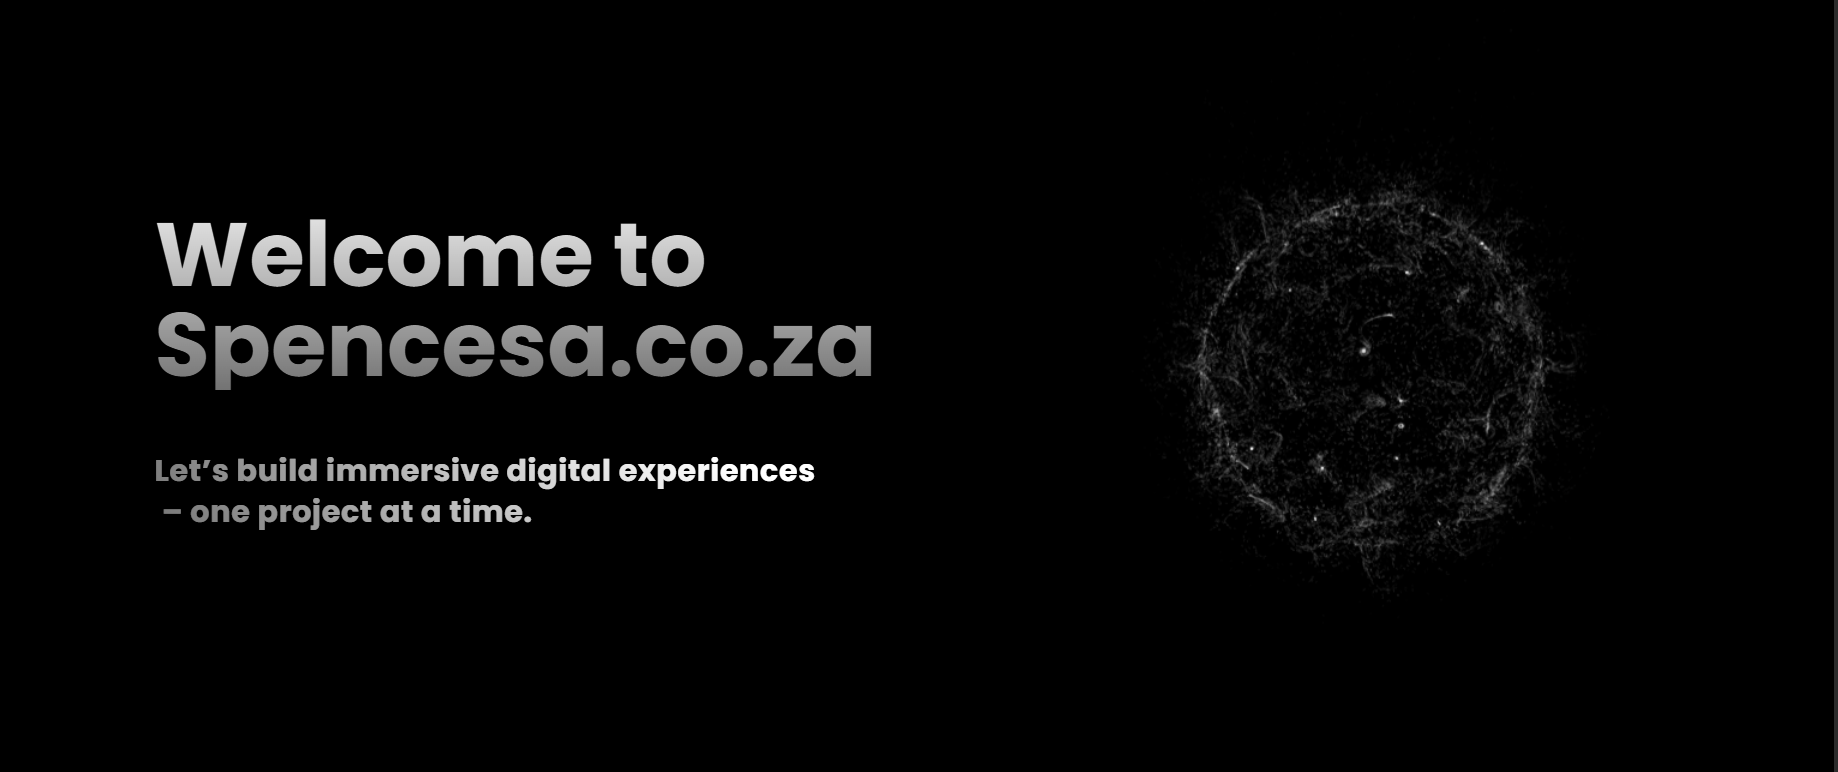
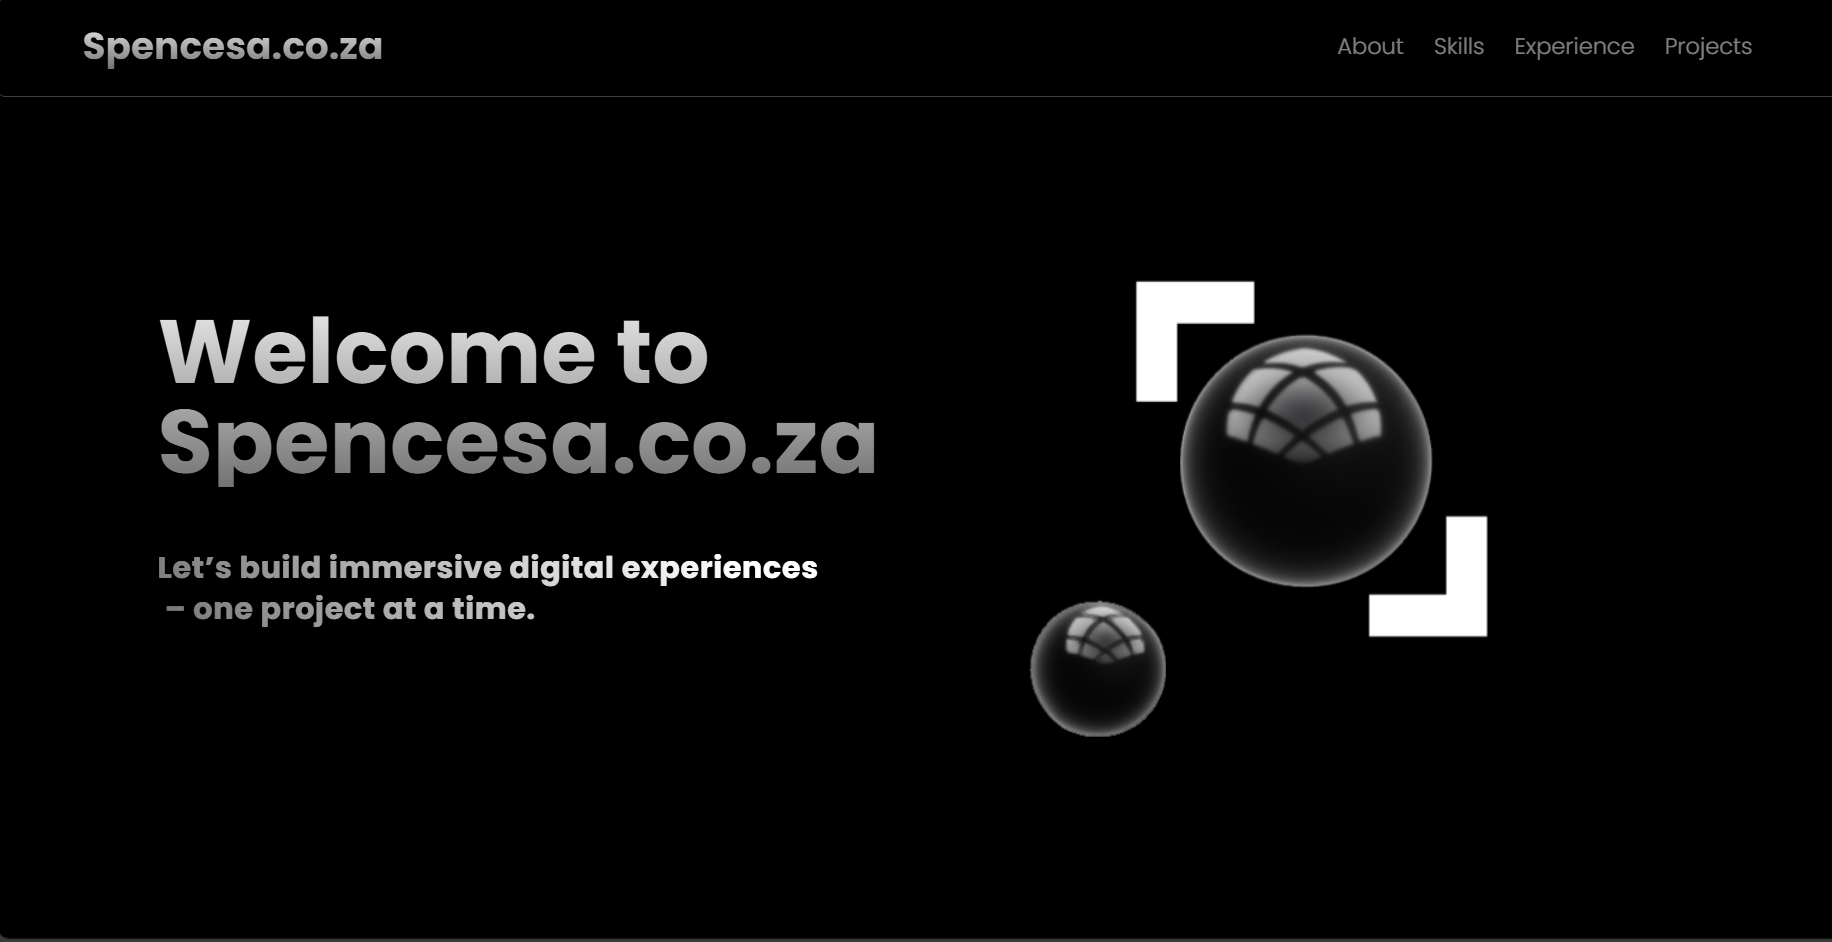
basic updates

diff --git a/hooks/waves.tsx b/hooks/waves.tsx
@@ -1,0 +1,354 @@
+import {useRef, useEffect} from "react";
+
+// Noise + Grad (unchanged)
+class Grad {
+    private x: number;
+    private y: number;
+    private z: number;
+
+    constructor(x: number, y: number, z: number) {
+        this.x = x;
+        this.y = y;
+        this.z = z;
+    }
+
+    dot2(x: number, y: number): number {
+        return this.x * x + this.y * y;
+    }
+}
+
+class Noise {
+
+    grad3: Grad[];
+    p: number[];
+    perm: number[];
+    gradP: Grad[];
+
+    constructor(seed = 0) {
+        this.grad3 = [
+            new Grad(1, 1, 0), new Grad(-1, 1, 0), new Grad(1, -1, 0), new Grad(-1, -1, 0),
+            new Grad(1, 0, 1), new Grad(-1, 0, 1), new Grad(1, 0, -1), new Grad(-1, 0, -1),
+            new Grad(0, 1, 1), new Grad(0, -1, 1), new Grad(0, 1, -1), new Grad(0, -1, -1)
+        ];
+        this.p = [151, 160, 137, 91, 90, 15, 131, 13, 201, 95, 96, 53, 194, 233, 7, 225, 140, 36, 103, 30,
+            69, 142, 8, 99, 37, 240, 21, 10, 23, 190, 6, 148, 247, 120, 234, 75, 0, 26, 197, 62, 94, 252, 219,
+            203, 117, 35, 11, 32, 57, 177, 33, 88, 237, 149, 56, 87, 174, 20, 125, 136, 171, 168, 68, 175, 74,
+            165, 71, 134, 139, 48, 27, 166, 77, 146, 158, 231, 83, 111, 229, 122, 60, 211, 133, 230, 220, 105,
+            92, 41, 55, 46, 245, 40, 244, 102, 143, 54, 65, 25, 63, 161, 1, 216, 80, 73, 209, 76, 132, 187, 208,
+            89, 18, 169, 200, 196, 135, 130, 116, 188, 159, 86, 164, 100, 109, 198, 173, 186, 3, 64, 52, 217,
+            226, 250, 124, 123, 5, 202, 38, 147, 118, 126, 255, 82, 85, 212, 207, 206, 59, 227, 47, 16, 58, 17,
+            182, 189, 28, 42, 223, 183, 170, 213, 119, 248, 152, 2, 44, 154, 163, 70, 221, 153, 101, 155, 167,
+            43, 172, 9, 129, 22, 39, 253, 19, 98, 108, 110, 79, 113, 224, 232, 178, 185, 112, 104, 218, 246,
+            97, 228, 251, 34, 242, 193, 238, 210, 144, 12, 191, 179, 162, 241, 81, 51, 145, 235, 249, 14, 239,
+            107, 49, 192, 214, 31, 181, 199, 106, 157, 184, 84, 204, 176, 115, 121, 50, 45, 127, 4, 150, 254,
+            138, 236, 205, 93, 222, 114, 67, 29, 24, 72, 243, 141, 128, 195, 78, 66, 215, 61, 156, 180
+        ];
+        this.perm = new Array(512);
+        this.gradP = new Array(512);
+        this.seed(seed);
+    }
+
+    seed(seed: number) {
+        if (seed > 0 && seed < 1) seed *= 65536;
+        seed = Math.floor(seed);
+        if (seed < 256) seed |= seed << 8;
+        for (let i = 0; i < 256; i++) {
+            let v = (i & 1) ? (this.p[i] ^ (seed & 255)) : (this.p[i] ^ ((seed >> 8) & 255));
+            this.perm[i] = this.perm[i + 256] = v;
+            this.gradP[i] = this.gradP[i + 256] = this.grad3[v % 12];
+        }
+    }
+
+    fade(t: number) {
+        return t * t * t * (t * (t * 6 - 15) + 10);
+    }
+
+    lerp(a: number, b: number, t: number) {
+        return (1 - t) * a + t * b;
+    }
+
+    perlin2(x: number, y: number) {
+        let X = Math.floor(x), Y = Math.floor(y);
+        x -= X;
+        y -= Y;
+        X &= 255;
+        Y &= 255;
+        const n00 = this.gradP[X + this.perm[Y]].dot2(x, y);
+        const n01 = this.gradP[X + this.perm[Y + 1]].dot2(x, y - 1);
+        const n10 = this.gradP[X + 1 + this.perm[Y]].dot2(x - 1, y);
+        const n11 = this.gradP[X + 1 + this.perm[Y + 1]].dot2(x - 1, y - 1);
+        const u = this.fade(x);
+        return this.lerp(
+            this.lerp(n00, n10, u),
+            this.lerp(n01, n11, u),
+            this.fade(y)
+        );
+    }
+}
+
+interface WavesProps {
+    lineColor?: string;
+    backgroundColor?: string;
+    waveSpeedX?: number;
+    waveSpeedY?: number;
+    waveAmpX?: number;
+    waveAmpY?: number;
+    xGap?: number;
+    yGap?: number;
+    friction?: number;
+    tension?: number;
+    maxCursorMove?: number;
+    style?: React.CSSProperties;
+    className?: string;
+}
+
+interface Points {
+    x: number;
+    y: number;
+    wave: {
+        x: number;
+        y: number;
+    }
+    cursor: {
+        x: number;
+        y: number;
+        vx: number;
+        vy: number;
+    }
+}
+
+interface BoundingElement {
+    width: number;
+    height: number;
+    left: number;
+    top: number;
+}
+
+interface MouseObject {
+    x: number;
+    y: number;
+    lx: number;
+    ly: number;
+    sx: number;
+    sy: number;
+    v: number;
+    vs: number;
+    a: number;
+    set: boolean;
+}
+
+export default function Waves({
+                                  lineColor = "black",
+                                  backgroundColor = "transparent",
+                                  waveSpeedX = 0.0125,   // per-frame horizontal speed factor
+                                  waveSpeedY = 0.005,    // per-frame vertical speed factor
+                                  waveAmpX = 32,         // horizontal amplitude
+                                  waveAmpY = 16,         // vertical amplitude
+                                  xGap = 10,             // horizontal gap between lines
+                                  yGap = 32,             // vertical gap between points
+                                  friction = 0.925,      // friction for cursor effect
+                                  tension = 0.005,       // tension for cursor effect
+                                  maxCursorMove = 100,   // clamp for cursor x/y
+                                  style = {},
+                                  className = ""
+                              }: WavesProps) {
+
+    const containerRef = useRef<HTMLDivElement>(null);
+    const canvasRef = useRef<HTMLCanvasElement>(null);
+    const ctxRef = useRef<CanvasRenderingContext2D | null>(null);
+    const boundingRef = useRef<BoundingElement>({width: 0, height: 0, left: 0, top: 0});
+    const noiseRef = useRef(new Noise(Math.random()));
+    const linesRef = useRef<Points[][]>([]);
+    const mouseRef = useRef<MouseObject>({
+        x: -10, y: 0, lx: 0, ly: 0, sx: 0, sy: 0, v: 0, vs: 0, a: 0, set: false
+    });
+
+    useEffect(() => {
+        const canvas = canvasRef.current;
+        const container = containerRef.current;
+
+        if (!canvas || !container) return;
+        ctxRef.current = canvas.getContext("2d");
+
+        function setSize() {
+            if (!container || !canvas) return;
+            boundingRef.current = container.getBoundingClientRect();
+            canvas.width = boundingRef.current.width;
+            canvas.height = boundingRef.current.height;
+        }
+
+        function setLines() {
+            const {width, height} = boundingRef.current;
+            linesRef.current = [];
+            const oWidth = width + 200, oHeight = height + 30;
+            const totalLines = Math.ceil(oWidth / xGap);
+            const totalPoints = Math.ceil(oHeight / yGap);
+            const xStart = (width - xGap * totalLines) / 2;
+            const yStart = (height - yGap * totalPoints) / 2;
+            for (let i = 0; i <= totalLines; i++) {
+                const pts = [];
+                for (let j = 0; j <= totalPoints; j++) {
+                    pts.push({
+                        x: xStart + xGap * i, y: yStart + yGap * j,
+                        wave: {x: 0, y: 0},
+                        cursor: {x: 0, y: 0, vx: 0, vy: 0}
+                    });
+                }
+                linesRef.current.push(pts);
+            }
+        }
+
+        function movePoints(time: number) {
+            const lines = linesRef.current, mouse = mouseRef.current, noise = noiseRef.current;
+            lines.forEach((pts) => {
+                pts.forEach((p) => {
+                    // Wave noise
+                    const move = noise.perlin2(
+                        (p.x + time * waveSpeedX) * 0.002,
+                        (p.y + time * waveSpeedY) * 0.0015
+                    ) * 12;
+                    p.wave.x = Math.cos(move) * waveAmpX;
+                    p.wave.y = Math.sin(move) * waveAmpY;
+
+                    // Mouse effect
+                    const dx = p.x - mouse.sx, dy = p.y - mouse.sy;
+                    const dist = Math.hypot(dx, dy), l = Math.max(175, mouse.vs);
+                    if (dist < l) {
+                        const s = 1 - dist / l;
+                        const f = Math.cos(dist * 0.001) * s;
+                        p.cursor.vx += Math.cos(mouse.a) * f * l * mouse.vs * 0.00065;
+                        p.cursor.vy += Math.sin(mouse.a) * f * l * mouse.vs * 0.00065;
+                    }
+                    // Tension + friction
+                    p.cursor.vx += (0 - p.cursor.x) * tension;
+                    p.cursor.vy += (0 - p.cursor.y) * tension;
+                    p.cursor.vx *= friction;
+                    p.cursor.vy *= friction;
+                    p.cursor.x += p.cursor.vx * 2;
+                    p.cursor.y += p.cursor.vy * 2;
+                    // Clamp
+                    p.cursor.x = Math.min(maxCursorMove, Math.max(-maxCursorMove, p.cursor.x));
+                    p.cursor.y = Math.min(maxCursorMove, Math.max(-maxCursorMove, p.cursor.y));
+                });
+            });
+        }
+
+        function moved(point: Points, withCursor = true) {
+            const x = point.x + point.wave.x + (withCursor ? point.cursor.x : 0);
+            const y = point.y + point.wave.y + (withCursor ? point.cursor.y : 0);
+            return {x: Math.round(x * 10) / 10, y: Math.round(y * 10) / 10};
+        }
+
+        function drawLines() {
+            const {width, height} = boundingRef.current;
+            const ctx = ctxRef.current;
+            if (!ctx) return;
+            ctx.clearRect(0, 0, width, height);
+            ctx.beginPath();
+            ctx.strokeStyle = lineColor;
+            linesRef.current.forEach((points) => {
+                let p1 = moved(points[0], false);
+                ctx.moveTo(p1.x, p1.y);
+                points.forEach((p, idx) => {
+                    const isLast = idx === points.length - 1;
+                    p1 = moved(p, !isLast);
+                    const p2 = moved(points[idx + 1] || points[points.length - 1], !isLast);
+                    ctx.lineTo(p1.x, p1.y);
+                    if (isLast) ctx.moveTo(p2.x, p2.y);
+                });
+            });
+            ctx.stroke();
+        }
+
+        function tick(t: number) {
+            const mouse = mouseRef.current;
+            // Smooth mouse
+            mouse.sx += (mouse.x - mouse.sx) * 0.1;
+            mouse.sy += (mouse.y - mouse.sy) * 0.1;
+            // Velocity
+            const dx = mouse.x - mouse.lx, dy = mouse.y - mouse.ly;
+            const d = Math.hypot(dx, dy);
+            mouse.v = d;
+            mouse.vs += (d - mouse.vs) * 0.1;
+            mouse.vs = Math.min(100, mouse.vs);
+            mouse.lx = mouse.x;
+            mouse.ly = mouse.y;
+            mouse.a = Math.atan2(dy, dx);
+            // Animate circle
+            if(!container) return;
+            container.style.setProperty("--x", `${mouse.sx}px`);
+            container.style.setProperty("--y", `${mouse.sy}px`);
+
+            movePoints(t);
+            drawLines();
+            requestAnimationFrame(tick);
+        }
+
+        function onResize() {
+            setSize();
+            setLines();
+        }
+
+        function onMouseMove(e: MouseEvent) {
+            updateMouse(e.pageX, e.pageY);
+        }
+
+        function onTouchMove(e: TouchEvent) {
+            const touch = e.touches[0];
+            updateMouse(touch.clientX, touch.clientY);
+        }
+
+        function updateMouse(x: number, y: number) {
+            const mouse = mouseRef.current, b = boundingRef.current;
+            mouse.x = x - b.left;
+            mouse.y = y - b.top + window.scrollY;
+            if (!mouse.set) {
+                mouse.sx = mouse.x;
+                mouse.sy = mouse.y;
+                mouse.lx = mouse.x;
+                mouse.ly = mouse.y;
+                mouse.set = true;
+            }
+        }
+
+        setSize();
+        setLines();
+        requestAnimationFrame(tick);
+        window.addEventListener("resize", onResize);
+        window.addEventListener("mousemove", onMouseMove);
+        window.addEventListener("touchmove", onTouchMove, {passive: false});
+
+        return () => {
+            window.removeEventListener("resize", onResize);
+            window.removeEventListener("mousemove", onMouseMove);
+            window.removeEventListener("touchmove", onTouchMove);
+        };
+    }, [
+        lineColor, backgroundColor, waveSpeedX, waveSpeedY,
+        waveAmpX, waveAmpY, friction, tension, maxCursorMove,
+        xGap, yGap
+    ]);
+
+    return (
+        <div
+            ref={containerRef}
+            style={{
+                backgroundColor,
+                ...style
+            }}
+            className={`absolute top-0 left-0 w-full h-full overflow-hidden ${className}`}
+        >
+            <div
+                className="absolute top-0 left-0 bg-[#160000] rounded-full w-[0.5rem] h-[0.5rem]"
+                style={{
+                    transform: "translate3d(calc(var(--x) - 50%), calc(var(--y) - 50%), 0)",
+                    willChange: "transform"
+                }}
+            />
+            <canvas
+                ref={canvasRef}
+                className="block w-full h-full"
+            />
+        </div>
+    );
+}

diff --git a/components/cubic-model.tsx b/components/cubic-model.tsx
@@ -13,7 +13,7 @@ const CubicModel = (props: Props) => {
       transition={{ duration: 0 }}
       className="h-full w-full"
     >
-      <Spline scene="https://prod.spline.design/MwKaqMzQmiet2Z3q/scene.splinecode" />
+      <Spline scene="https://prod.spline.design/2rmUNj0Dzz9P4ZyX/scene.splinecode" />
     </motion.div>
   );
 };

diff --git a/components/ui/hero-parallax.tsx b/components/ui/hero-parallax.tsx
@@ -11,6 +11,8 @@ import Image from "next/image";
 import Link from "next/link";
 import { TextGenerateEffect } from "./text-generate-effect";
 import CubicModel from "../cubic-model";
+import Waves from '../../hooks/waves'
+
 
 export const HeroParallax = ({}: {}) => {
   const ref = React.useRef(null);
